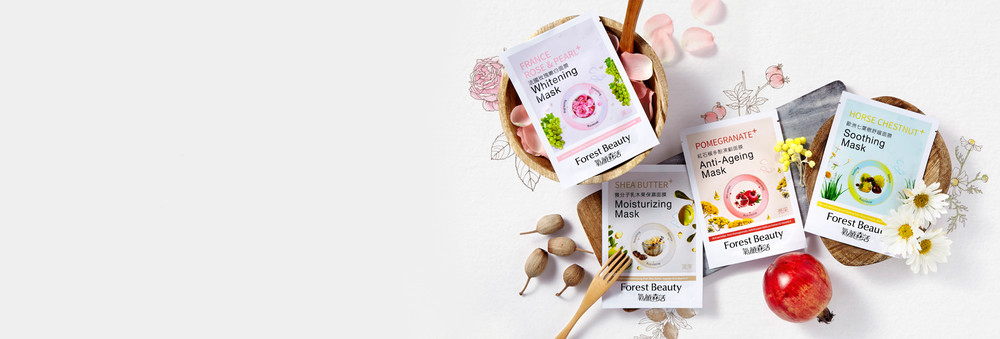
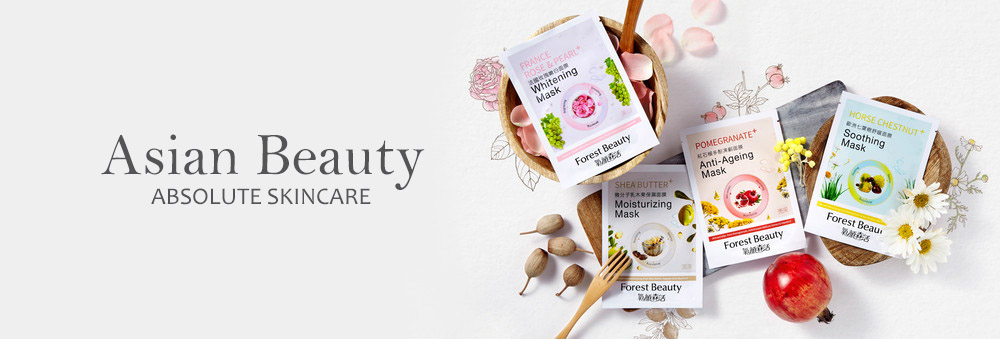
Add files via upload

Changed region(s): [[0.093, 0.3835, 0.434, 0.6195]]

diff --git a/app/modules/contacts/contactsView.html b/app/modules/contacts/contactsView.html
@@ -1,15 +1,14 @@
-<div class="jumbotron jumbotron-fluid">
-    <div class="container">
-        <h1 class="display-4">Контакты</h1>
-        <p class="lead">Натуральная косметика из Азии</p>
-    </div>
-</div>
+<img class="img-fluid rounded mx-auto d-block" src="/app/data/img/contacts.jpg" alt="Asian Beauty">
 
 
-<div class="container">
+<div class="container mt-3">
+   
     <div class="row">
+       
         <div class="col-md-6">
-            <h3 class="display-5">Индивидуальный предприниматель Кудрук Екатерина Владимировна</h3>
+            <h2 class="display-4 text-center">Контакты</h2>
+            <h3 class="text-center">Индивидуальный предприниматель Кудрук Екатерина Владимировна</h3>
+            <hr>
             <p class="lead">Республика Беларусь, г. Минск, ул. Карвата, 31а, кв.70
                 <br>тел. +375 (29) 704-50-67
                 <br>тел. +375 (33) 669-14-95
@@ -22,14 +21,17 @@
 
         </div>
         <div class="col-md-6">
+            <h3 class="display-4 text-center">Обратная связь</h3>
+             <h3 class="text-center">Заполните контактные данные, и мы свяжемся с вами в кратчайшие сроки:</h3>
+             <hr>
             <div id="contactsFeedback">
-                <h2>Обратная связь</h2>
-                <h3>Заполните контактные данные, и мы свяжемся с вами в кратчайшие сроки:</h3>
+               
+               
                 <input type="text" name="name" maxlength="50" data-wi-fb-caption="Имя" placeholder="Ваше Имя..." />
                 <input type="tel" name="phone" maxlength="50" data-wi-fb-caption="Телефон" placeholder="Ваш Телефон...*" />
                 <input type="email" name="email" maxlength="50" data-wi-fb-caption="Почта" placeholder="Ваш E-mail..." required/>
                 <textarea name="message" maxlength="500" data-wi-fb-caption="Сообщение" placeholder="Сообщение..."></textarea>
-                <button>Написать</button>
+                <button class="btn-shiny">Написать</button>
             </div>
         </div>
     </div>

diff --git a/app/modules/productList/productListView.html b/app/modules/productList/productListView.html
@@ -4,20 +4,20 @@
    
     <h2 class="display-3 text-center">Маски для лица</h2>
 
-    <form class="form-row m-4">
+    <form class="form-row mr-4 ml-4">
 
-        <div class="btn-group  col-md-4" role="group">
+        <div class="btn-group  col-md-4  mb-2" role="group">
             <button ng-click="listView()" type="button" class="listView btn btn-outline-secondary"><i class="fa fa-bars"></i> Список</button>
             <button ng-click="gridView()" type="button" class="gridView btn btn-outline-secondary active"><i class="fa fa-th-large"></i> Плитка</button>
         </div>
 
-        <div class="input-group col-md-4">
+        <div class="input-group col-md-4 mb-2">
             <select ng-model="priceSearch.category" ng-change="subCategorysList(priceSearch.category)" class="form-control">
             <option value=""> - Все Категории - </option>
             <option ng-repeat="categoryName in categorySort">{{categoryName}}</option>
             </select>
         </div>
-        <div class="col-md-4">
+        <div class="col-md-4 mb-2">
             <input ng-model="priceSearch.$" type="text" class="form-control" placeholder="Поиск...">
         </div>
 
@@ -25,21 +25,23 @@
     <!--    ================================================================-->
 
 
-
-    <div  ng-repeat="sub in subCategorySort">
+<din class="row mr-4 ml-4">
+     <div class="col-md-4 offset-md-4" ng-repeat="sub in subCategorySort">
         <input type="checkbox" ng-model="SubFilter[sub]" checklist-value="sub"> {{sub}}
     </div>
+</din>
+   
 
 
 
     <!--=====================================================================-->
 
-    <div class="priceList row justify-content-around">
+    <div class="priceList row justify-content-around mt-2">
 
 
         <div class="product animated" ng-repeat="product in (priceList | filter: filterSubByCategory) | filter: priceSearch" ng-init="viewType()">
             <!--           <a href=""><div class="btnFav"></div></a>-->
-            <div class="row productCard">
+            <div class="row productCard" ng-class="{animated:hover, pulse: hover, shadow: hover}" ng-mouseenter="hover = true" ng-mouseleave="hover = false">
                 <div class="productImg">
                     <a href="/products/masks/id/{{product.id}}">
                 <img class="w-100" src="{{product.img}}" alt="{{product.name}}">

diff --git a/app/modules/news/newsView.html b/app/modules/news/newsView.html
@@ -1,24 +1,22 @@
+<img class="img-fluid rounded mx-auto d-block" src="/app/data/img/news.jpg" alt="Asian Beauty">
 <div class="container">
     <h2 class="display-3 text-center">Статьи</h2>
 
 
     <div class="newsList">
         <div class="news row animated zoomIn" ng-repeat="news in newsList">
-
             <div class="col-md-3 col-sm-6">
                 <a href="/news/id/{{news.id}}">
                 <img src="{{news.img}}" alt="{{news.name}}">
                 </a>
             </div>
             <dib class="col-md-9 col-sm-6">
-                    <h4>{{news.name}}</h4>
-                   <p>
-                       {{news.description}}
-                   </p>
-                   <a class="col-md-4 btn-shiny" href="/news/id/{{news.id}}">Подробнее...</a>
+                <h4>{{news.name}}</h4>
+                <p>
+                    {{news.description}}
+                </p>
+                <a class="col-md-4 btn-shiny" href="/news/id/{{news.id}}">Подробнее...</a>
             </dib>
-
-
 
 
 
@@ -27,6 +25,6 @@
         <div ng-hide="newsList" class="alert alert-info">
             <div class="loader">Загрузка...</div>
         </div>
-        
+
     </div>
 </div>

diff --git a/app/modules/navigations/navigationStyles.css b/app/modules/navigations/navigationStyles.css
@@ -210,8 +210,7 @@ p {
     text-align: center;
 }
 
-.main-nav li a,
-.main-nav li span {
+.main-nav li a {
     display: block;
     width: 100%;
     margin: 15px 0;
@@ -367,6 +366,7 @@ p {
     }
 
     /* design and position downward arrow */
+/*
     .main-nav li span:after {
         content: "";
         width: 6px;
@@ -379,6 +379,7 @@ p {
         border-left: 2px solid #666;
         border-bottom: 2px solid #666;
     }
+*/
 
     .main-nav li a:hover,
     .main-nav li span:hover {

diff --git a/app/modules/navigations/navigationView.html b/app/modules/navigations/navigationView.html
@@ -20,7 +20,7 @@
 			<li><a href="/news">Статьи</a></li>
 <!--			<li><a href="/about">О нас</a></li>-->
 			<li><a href="/contacts">Контакты</a></li>
-			<li  ng-controller="cartController"><a href="/cart">Избранное {{goods}}</a></li>
+			<li  ng-controller="cartController"><a href="/cart">Избранное <span ng-show="goods>0">{{goods}}</span></a></li>
 		</ul>
 		
 	</div>

diff --git a/app/modules/productList/productListStyles.css b/app/modules/productList/productListStyles.css
@@ -29,6 +29,10 @@
     box-shadow: none;
 }
 
+.shadow {
+    -webkit-box-shadow: 0 5px 15px -1px  #666;
+          box-shadow: 0 5px 15px -1px  #666;
+}
 
 
 /*
